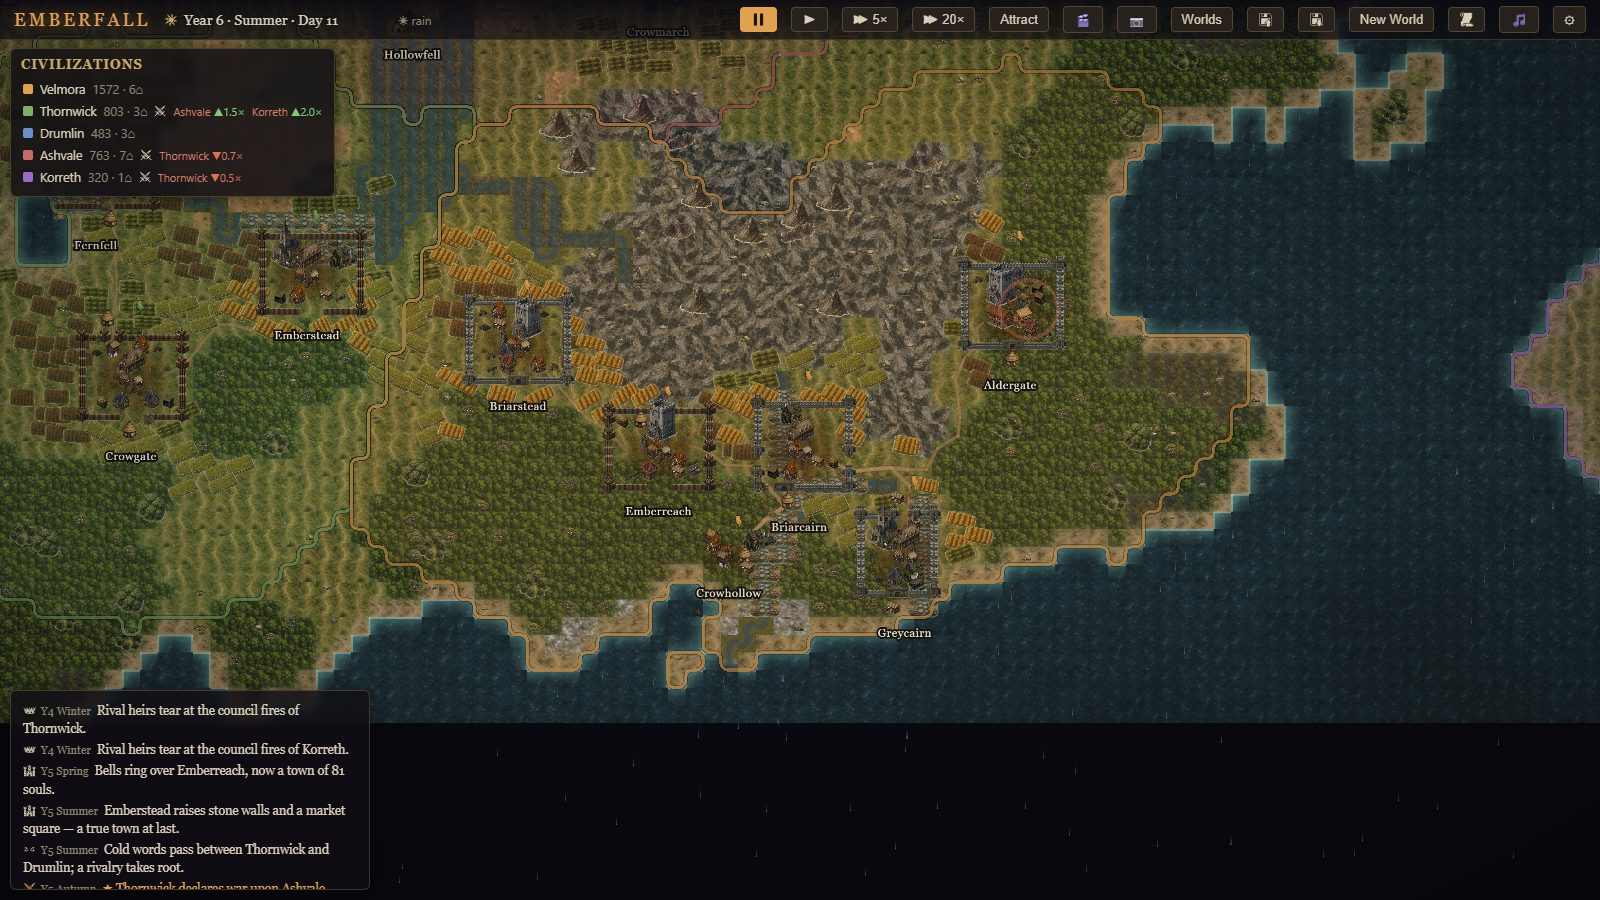
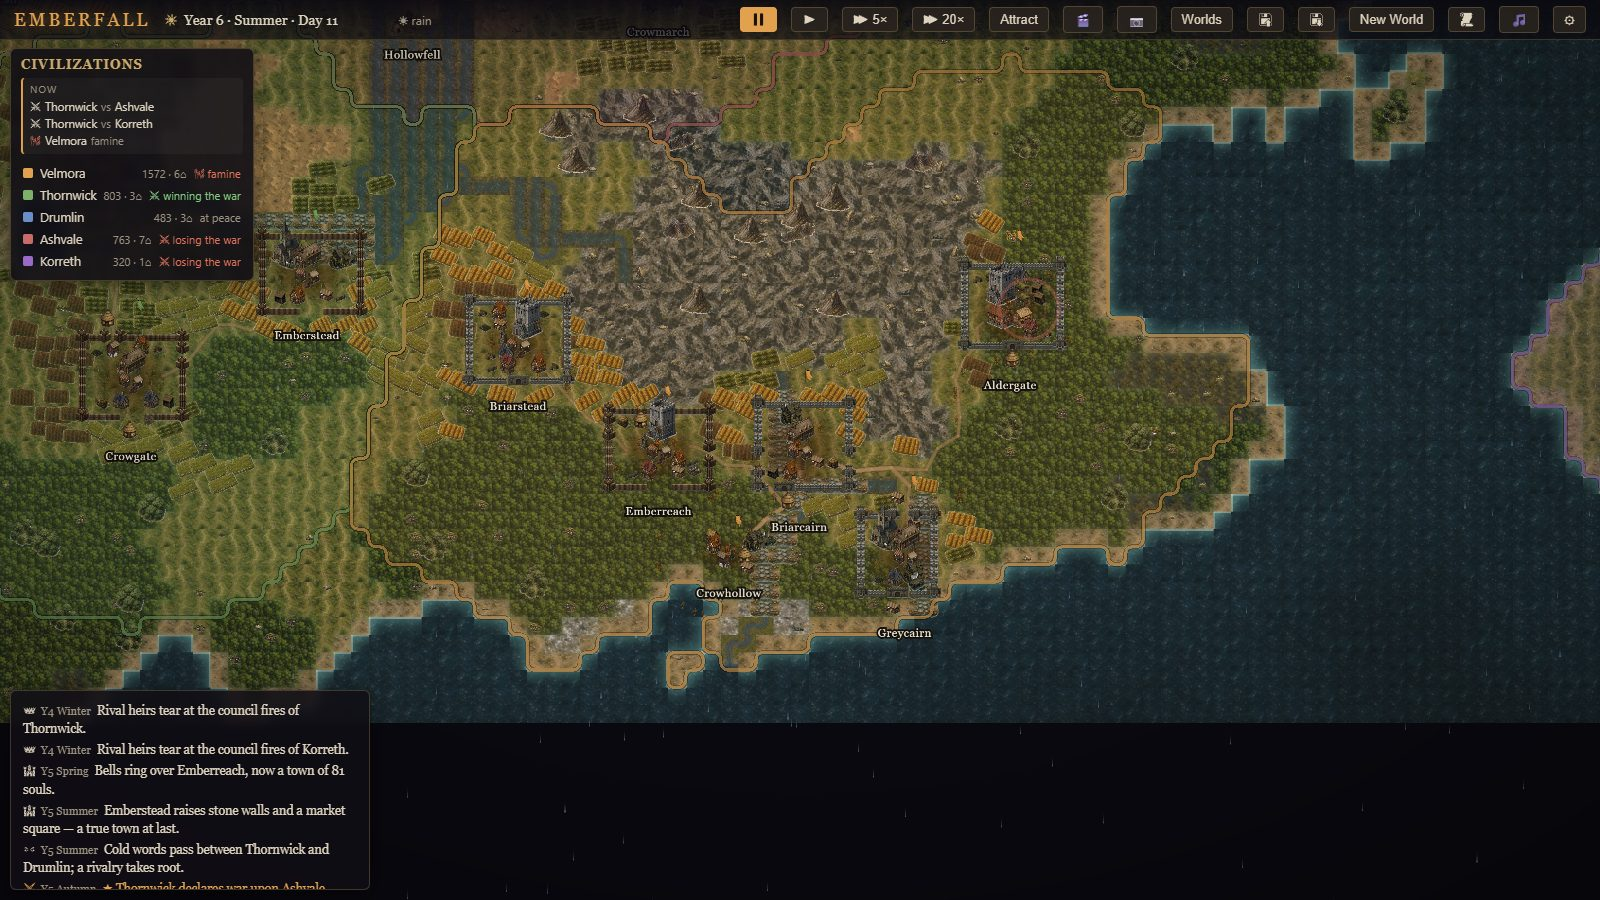
Batch 20: civ panel as narration layer (codex review-8 #2)
Codex review-8: the bottleneck has shifted from settlement art to
simulation/gameplay legibility — a watcher can't follow WHY civs rise/war/
collapse. First UI pass (uses existing sim data only — zero determinism risk):

- Per-civ STATUS synopsis: each living civ shows the most salient thing
  happening to it — golden age / succession crisis / winning|losing|at war /
  plague / famine / under raids / at peace — derived from live state, icon +
  tone-coloured (green good / red bad / ember warn), with a hover cause-detail
  (foe, military ratio, raided count).
- "NOW" threads header: the world's 2-3 loudest live threads (fiercest wars,
  golden ages, crises) so the aquarium's current story reads at a glance.
- Contrast pass: brighter --ink / --ink-dim, denser --panel-bg, readable
  status/thread styling. New i18n keys (en/zh) for every status + the header.

64 tests + 12-shot QA green; lint clean.

Changed region(s): [[0.0, 0.0311, 0.2188, 0.3422]]

diff --git a/src/ui/civPanel.ts b/src/ui/civPanel.ts
@@ -1,7 +1,18 @@
-/** Civilization roster: a living scoreboard of every culture in the world. */
-import type { SimState } from '../core/types';
+/** Civilization roster: a living scoreboard that explains WHY each culture is
+    thriving or failing, plus the world's live story threads. */
+import type { Civilization, SimState } from '../core/types';
 import { t } from './i18n';
 import { eventIconHtml } from './icons';
+
+type Tone = 'good' | 'bad' | 'warn' | 'neutral';
+
+interface Status {
+  key: string;
+  icon: string;
+  tone: Tone;
+  /** Hover detail: the cause chain behind the status. */
+  detail: string;
+}
 
 export class CivPanel {
   private root: HTMLElement;
@@ -14,45 +25,108 @@ export class CivPanel {
     });
   }
 
+  /** The most salient thing happening to a civ right now, with a cause hint. */
+  private status(state: SimState, civ: Civilization): Status {
+    const own = state.settlements.filter((s) => s.civId === civ.id);
+    const enemies = state.civs.filter(
+      (o) => o.id !== civ.id && o.alive && state.relations[civ.id][o.id]?.state === 'war',
+    );
+    const raided = own.filter((s) => state.day - s.lastRaidDay <= 20).length;
+    const famine = own.filter((s) => s.famineDays > 0).length;
+    const plague = own.filter((s) => s.plagueDays > 0).length;
+
+    if (civ.goldenAgeDays > 0) {
+      return { key: 'civs.status.golden', icon: 'goldenAge', tone: 'good', detail: `${own.length}⌂` };
+    }
+    if (civ.crisisDays > 0) {
+      return { key: 'civs.status.crisis', icon: 'succession', tone: 'bad', detail: '' };
+    }
+    if (enemies.length) {
+      const eMil = Math.max(...enemies.map((o) => o.military));
+      const ratio = eMil > 0 ? civ.military / eMil : 2;
+      const foe = enemies.map((o) => o.name).join(', ');
+      const detail = `${foe} · ${ratio.toFixed(1)}× mil${raided ? ` · ${raided} raided` : ''}`;
+      if (ratio <= 0.85) return { key: 'civs.status.losing', icon: 'warDeclared', tone: 'bad', detail };
+      if (ratio >= 1.18) return { key: 'civs.status.winning', icon: 'warDeclared', tone: 'good', detail };
+      return { key: 'civs.status.war', icon: 'warDeclared', tone: 'warn', detail };
+    }
+    if (plague > 0) {
+      return { key: 'civs.status.plague', icon: 'plague', tone: 'bad', detail: `${plague}⌂` };
+    }
+    if (famine > 0) {
+      return { key: 'civs.status.famine', icon: 'famine', tone: 'bad', detail: `${famine}⌂` };
+    }
+    if (raided > 0) {
+      return { key: 'civs.status.raided', icon: 'warDeclared', tone: 'warn', detail: `${raided}⌂` };
+    }
+    return { key: 'civs.status.peace', icon: '', tone: 'neutral', detail: '' };
+  }
+
+  /** The world's 2-3 loudest live threads: wars, golden ages, crises. */
+  private threads(state: SimState): string {
+    const live = state.civs.filter((c) => c.alive);
+    const byId = (id: number): Civilization | undefined => state.civs[id];
+    const out: string[] = [];
+    // Active wars, fiercest (longest-running) first.
+    const wars: { a: Civilization; b: Civilization; days: number }[] = [];
+    for (let i = 0; i < state.civs.length; i++) {
+      for (let j = i + 1; j < state.civs.length; j++) {
+        const a = byId(i);
+        const b = byId(j);
+        if (!a?.alive || !b?.alive) continue;
+        const rel = state.relations[i]?.[j];
+        if (rel?.state === 'war') wars.push({ a, b, days: rel.warDays });
+      }
+    }
+    wars.sort((x, y) => y.days - x.days);
+    for (const w of wars.slice(0, 2)) {
+      out.push(`${eventIconHtml('warDeclared')} ${w.a.name} <span class="dim">vs</span> ${w.b.name}`);
+    }
+    const golden = live.find((c) => c.goldenAgeDays > 0);
+    if (golden && out.length < 3) {
+      out.push(`${eventIconHtml('goldenAge', 'good')} ${golden.name} <span class="dim">${t('civs.status.golden')}</span>`);
+    }
+    // A crisis thread (succession / famine / plague), if room.
+    for (const c of live) {
+      if (out.length >= 3) break;
+      if (c.crisisDays > 0) {
+        out.push(`${eventIconHtml('succession', 'bad')} ${c.name} <span class="dim">${t('civs.status.crisis')}</span>`);
+        break;
+      }
+      const fam = state.settlements.some((s) => s.civId === c.id && s.famineDays > 0);
+      if (fam) {
+        out.push(`${eventIconHtml('famine', 'bad')} ${c.name} <span class="dim">${t('civs.status.famine')}</span>`);
+        break;
+      }
+    }
+    const body = out.length
+      ? out.map((l) => `<div class="thread">${l}</div>`).join('')
+      : `<div class="thread dim">${t('civs.now.empty')}</div>`;
+    return `<div class="now"><div class="now-h">${t('civs.now')}</div>${body}</div>`;
+  }
+
   update(state: SimState): void {
     let html = `<h3>${t('civs.title')}</h3>`;
+    html += this.threads(state);
     for (const civ of state.civs) {
       const settlements = state.settlements.filter((s) => s.civId === civ.id);
       const pop = Math.round(settlements.reduce((sum, s) => sum + s.population, 0));
       const color = `#${civ.color.toString(16).padStart(6, '0')}`;
-      // Recently-raided settlements = frontier under active attack.
-      const raided = settlements.filter((s) => state.day - s.lastRaidDay <= 20).length;
-      const warSpans = state.civs
-        .filter(
-          (o) => o.id !== civ.id && o.alive && state.relations[civ.id][o.id]?.state === 'war',
-        )
-        .map((o) => {
-          const rel = state.relations[civ.id][o.id];
-          const ratio = o.military > 0 ? civ.military / o.military : 2;
-          const col = ratio >= 1.15 ? '#7fc97f' : ratio <= 0.87 ? '#e0705a' : 'var(--ink-dim)';
-          const arrow = ratio >= 1.15 ? '▲' : ratio <= 0.87 ? '▼' : '=';
-          const title = `${o.name}: ${rel.warDays}d · military ${ratio.toFixed(2)}× · ${raided} raided`;
-          return `<span class="war" title="${title}">${o.name} <span style="color:${col}">${arrow}${ratio.toFixed(1)}×</span></span>`;
-        });
-      const badges = [
-        civ.goldenAgeDays > 0 ? `<span style="color:var(--ember)">${eventIconHtml('goldenAge')}</span>` : '',
-        civ.crisisDays > 0 ? eventIconHtml('succession') : '',
-        warSpans.length > 0 ? `${eventIconHtml('warDeclared')} ${warSpans.join(' ')}` : '',
-      ]
-        .filter(Boolean)
-        .join(' ');
       if (civ.alive) {
+        const st = this.status(state, civ);
+        const icon = st.icon ? eventIconHtml(st.icon, st.tone) : '';
+        const statusHtml = `<span class="status ${st.tone}" title="${st.detail}">${icon}${t(st.key)}</span>`;
         html += `<div class="civ-row" data-civ="${civ.id}">
           <span class="chip" style="background:${color}"></span>
-          <span>${civ.name}</span>
-          <span style="color:var(--ink-dim)">${pop} · ${settlements.length}⌂</span>
-          ${badges}
+          <span class="cname">${civ.name}</span>
+          <span class="dim">${pop} · ${settlements.length}⌂</span>
+          ${statusHtml}
         </div>`;
       } else {
         html += `<div class="civ-row fallen" data-civ="${civ.id}">
           <span class="chip" style="background:${color}"></span>
-          <span>${civ.name}</span>
-          <span style="color:var(--ink-dim)">${t('civs.fell', civ.fallenYear)}</span>
+          <span class="cname">${civ.name}</span>
+          <span class="dim">${t('civs.fell', civ.fallenYear)}</span>
         </div>`;
       }
     }

diff --git a/src/style.css b/src/style.css
@@ -1,8 +1,8 @@
 :root {
-  --panel-bg: rgba(16, 14, 20, 0.82);
+  --panel-bg: rgba(16, 14, 20, 0.88);
   --panel-border: rgba(212, 175, 110, 0.25);
-  --ink: #d8cdb8;
-  --ink-dim: #8d8472;
+  --ink: #ddd2bd;
+  --ink-dim: #9c9281;
   --ember: #e2a14e;
   --accent: #c9a86a;
   font-size: 14px;
@@ -193,6 +193,64 @@ body {
 #civpanel .war {
   color: #d97b6c;
   font-size: 11px;
+}
+
+/* Live story threads — the world's "what's happening now" at a glance. */
+#civpanel {
+  min-width: 232px;
+}
+#civpanel .now {
+  margin: 0 0 8px;
+  padding: 5px 7px;
+  background: rgba(255, 255, 255, 0.035);
+  border-left: 2px solid var(--ember);
+  border-radius: 4px;
+}
+#civpanel .now-h {
+  font-size: 9.5px;
+  letter-spacing: 1.5px;
+  color: var(--ink-dim);
+  margin-bottom: 3px;
+}
+#civpanel .thread {
+  display: flex;
+  align-items: center;
+  gap: 4px;
+  font-size: 11.5px;
+  padding: 1px 0;
+}
+#civpanel .cname {
+  flex: 1;
+  white-space: nowrap;
+}
+#civpanel .status {
+  display: inline-flex;
+  align-items: center;
+  gap: 3px;
+  font-size: 11px;
+  white-space: nowrap;
+}
+#civpanel .status .gicon,
+#civpanel .thread .gicon {
+  width: 11px;
+  height: 11px;
+  vertical-align: -1px;
+}
+#civpanel .dim {
+  color: var(--ink-dim);
+  font-size: 11px;
+}
+#civpanel .good {
+  color: #7fc97f;
+}
+#civpanel .bad {
+  color: #e0705a;
+}
+#civpanel .warn {
+  color: var(--ember);
+}
+#civpanel .neutral {
+  color: var(--ink-dim);
 }
 
 /* ── Inspector ───────────────────────────────────── */

diff --git a/src/ui/i18n.ts b/src/ui/i18n.ts
@@ -79,6 +79,19 @@ const UI: Record<string, { en: string; zh: string }> = {
   // Panels
   'civs.title': { en: 'CIVILIZATIONS', zh: '文明' },
   'civs.fell': { en: 'fell Y{n}', zh: '覆灭于第{n}年' },
+  // Per-civ status synopsis — the "why" at a glance, derived from live state.
+  'civs.status.golden': { en: 'golden age', zh: '黄金时代' },
+  'civs.status.crisis': { en: 'succession crisis', zh: '继承危机' },
+  'civs.status.losing': { en: 'losing the war', zh: '战事失利' },
+  'civs.status.winning': { en: 'winning the war', zh: '战事得胜' },
+  'civs.status.war': { en: 'at war', zh: '交战中' },
+  'civs.status.plague': { en: 'plague-struck', zh: '瘟疫肆虐' },
+  'civs.status.famine': { en: 'famine', zh: '饥荒' },
+  'civs.status.raided': { en: 'under raids', zh: '遭劫掠' },
+  'civs.status.peace': { en: 'at peace', zh: '太平' },
+  // "What's happening now" — the world's 2-3 live story threads.
+  'civs.now': { en: 'NOW', zh: '当下' },
+  'civs.now.empty': { en: 'a quiet age', zh: '太平之世' },
   'history.title': { en: 'THE HISTORICAL RECORD', zh: '历史记录' },
   'history.year': { en: 'Year {n}', zh: '第 {n} 年' },
   'history.empty': {
